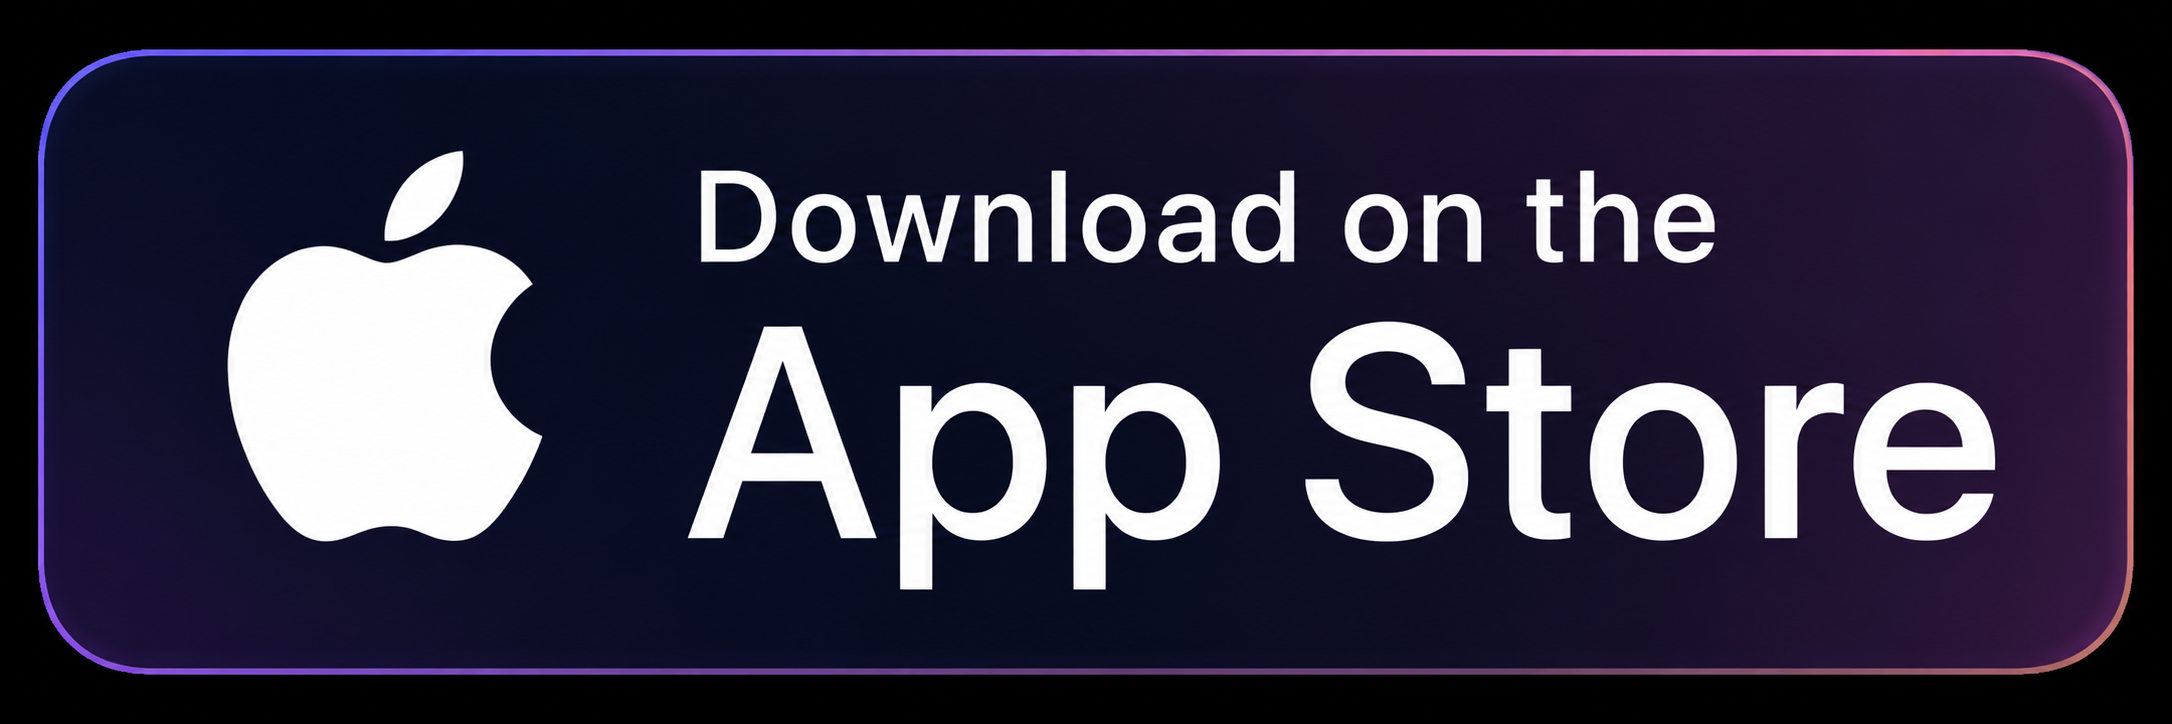
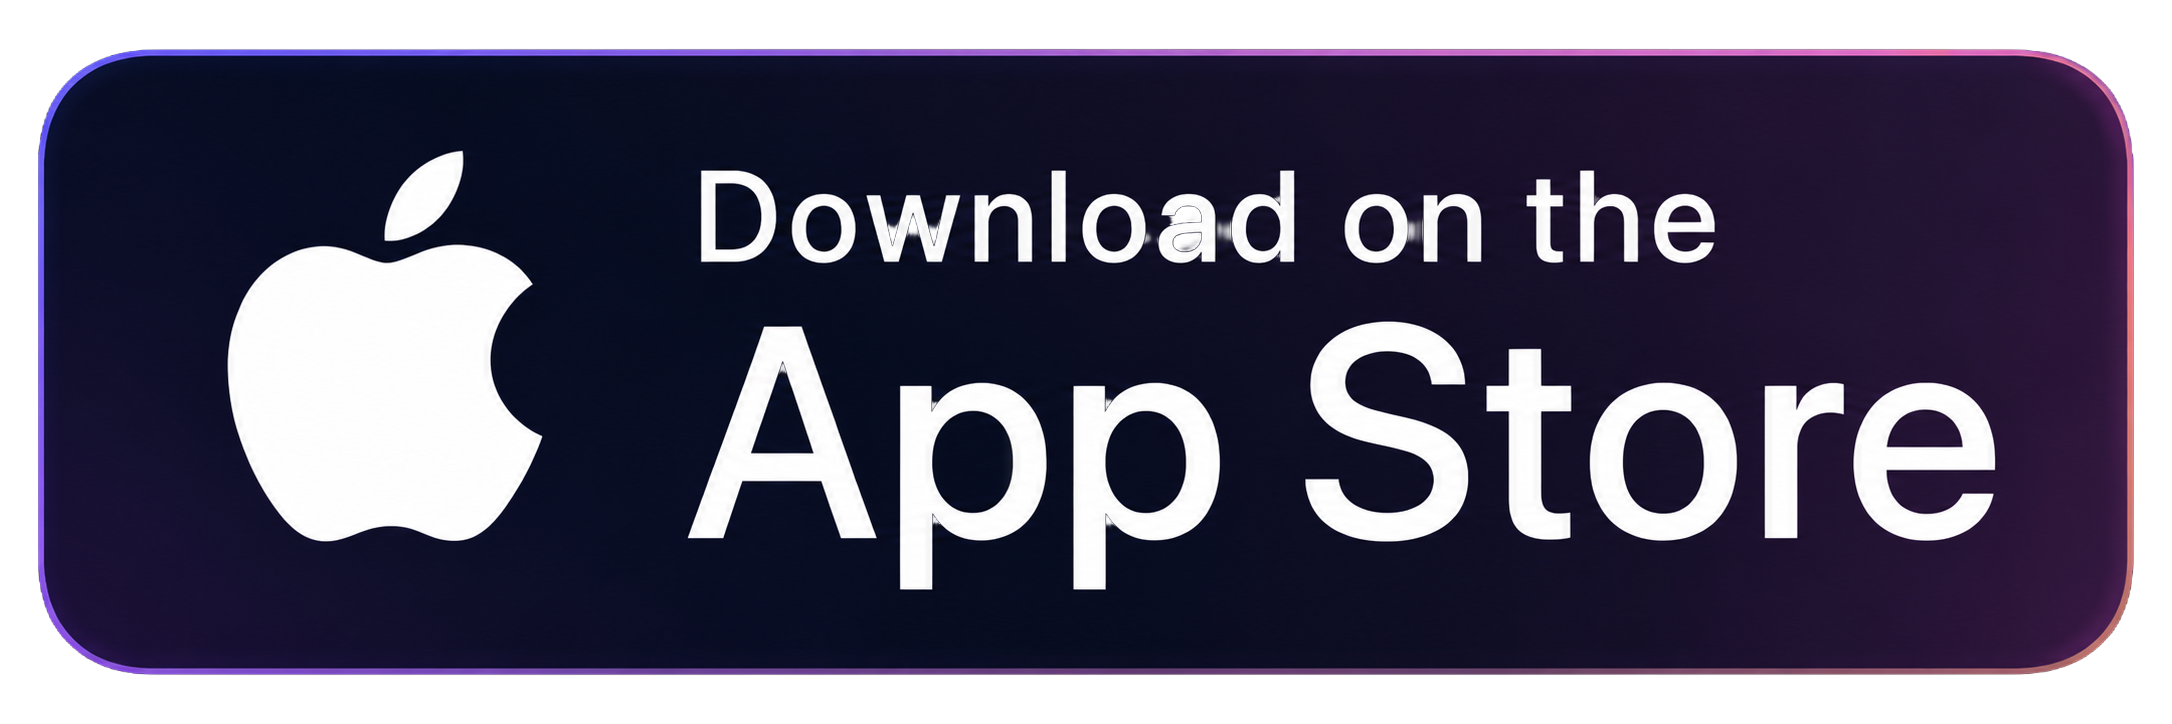
Site: transparent App Store badges + badges on the home app cards
- Swap Renewise/B-DAY badges to transparent PNGs (the previous ones had a
  black rectangle background that showed on the purple page).
- AppCard: body links to the app page, footer now carries a live App Store
  download badge for published apps (own <a>, not nested in the body link);
  new .app-card-body + .store-badge-sm styles.
- Renewise & B-DAY carry appStoreUrl in the config.

diff --git a/components/AppCard.tsx b/components/AppCard.tsx
@@ -10,42 +10,53 @@ const platformIcon: Record<string, IconName> = {
   Mac: "devices"
 };
 
-/** Featured app card (B-DAY). The whole card is a link to the app page. */
+/** Featured app card. The body links to the app page; a live App Store badge sits
+ *  in the footer for published apps (a real <a>, so it can't nest inside the body link). */
 export function AppCard({ app, eyebrow = "Featured App" }: { app: AppDefinition; eyebrow?: string }) {
   return (
-    <Link
-      href={app.href}
-      className="glass glass-violet app-card"
-      aria-label={`${app.name} — ${app.tagline}`}
-    >
-      <p className="eyebrow">{eyebrow}</p>
+    <div className="glass glass-violet app-card">
+      <Link href={app.href} className="app-card-body" aria-label={`${app.name} — ${app.tagline}`}>
+        <p className="eyebrow">{eyebrow}</p>
 
-      <div className="app-card-head">
-        <span className="app-icon" aria-hidden="true">
-          {/* eslint-disable-next-line @next/next/no-img-element */}
-          <img src={app.icon} alt="" className="app-icon-img" />
-        </span>
-        <h3>{app.name}</h3>
-      </div>
-
-      <p className="app-card-tagline">{app.tagline}</p>
-      <p className="app-card-desc">{app.description}</p>
-
-      <div className="badges">
-        {app.platforms.map((p) => (
-          <span className="badge" key={p}>
-            <Icon name={platformIcon[p] ?? "iphone"} size={14} />
-            {p}
+        <div className="app-card-head">
+          <span className="app-icon" aria-hidden="true">
+            {/* eslint-disable-next-line @next/next/no-img-element */}
+            <img src={app.icon} alt="" className="app-icon-img" />
           </span>
-        ))}
-      </div>
+          <h3>{app.name}</h3>
+        </div>
+
+        <p className="app-card-tagline">{app.tagline}</p>
+        <p className="app-card-desc">{app.description}</p>
+
+        <div className="badges">
+          {app.platforms.map((p) => (
+            <span className="badge" key={p}>
+              <Icon name={platformIcon[p] ?? "iphone"} size={14} />
+              {p}
+            </span>
+          ))}
+        </div>
+      </Link>
 
       <div className="app-card-foot">
-        <span className="app-card-cta">
+        <Link href={app.href} className="app-card-cta">
           Explore {app.name}
           <Icon name="arrow" />
-        </span>
+        </Link>
+        {app.appStoreUrl && (
+          <a
+            className="store-badge-link"
+            href={app.appStoreUrl}
+            target="_blank"
+            rel="noopener noreferrer"
+            aria-label={`Download ${app.name} on the App Store`}
+          >
+            {/* eslint-disable-next-line @next/next/no-img-element */}
+            <img className="store-badge store-badge-sm" src={`${app.href}/appstore-badge.png`} alt="Download on the App Store" />
+          </a>
+        )}
       </div>
-    </Link>
+    </div>
   );
 }

diff --git a/lib/apps.ts b/lib/apps.ts
@@ -23,6 +23,8 @@ export interface AppDefinition {
   status: AppStatus;
   featured: boolean;
   href: string;
+  /** Live App Store product URL. Set once published; drives the download badge. */
+  appStoreUrl?: string;
 }
 
 export const apps: AppDefinition[] = [
@@ -36,7 +38,8 @@ export const apps: AppDefinition[] = [
     heroImage: "/images/b-day/iphone-today.webp",
     status: "available",
     featured: true,
-    href: "/apps/b-day"
+    href: "/apps/b-day",
+    appStoreUrl: "https://apps.apple.com/us/app/b-day-birthday-organizer/id6785263792"
   },
   {
     slug: "soon",
@@ -49,7 +52,8 @@ export const apps: AppDefinition[] = [
     heroImage: "/apps/renewise/icon.png",
     status: "available",
     featured: false,
-    href: "/apps/renewise"
+    href: "/apps/renewise",
+    appStoreUrl: "https://apps.apple.com/app/id6787124838"
   },
   {
     slug: "nesti",

diff --git a/app/globals.css b/app/globals.css
@@ -527,6 +527,20 @@ main {
   border-radius: var(--radius-lg);
   transition: transform 0.22s ease, border-color 0.22s ease, box-shadow 0.22s ease;
 }
+/* Tappable body (links to the app page); keeps the card's internal rhythm since the
+   content moved off the card root so the App Store badge can be its own link. */
+.app-card-body {
+  display: flex;
+  flex-direction: column;
+  gap: 18px;
+  flex: 1 1 auto;
+  color: inherit;
+  text-decoration: none;
+}
+/* Smaller badge for the app cards' footer. */
+.store-badge-sm {
+  height: 40px;
+}
 .app-card:hover {
   transform: translateY(-4px);
   border-color: var(--glass-border-violet);
